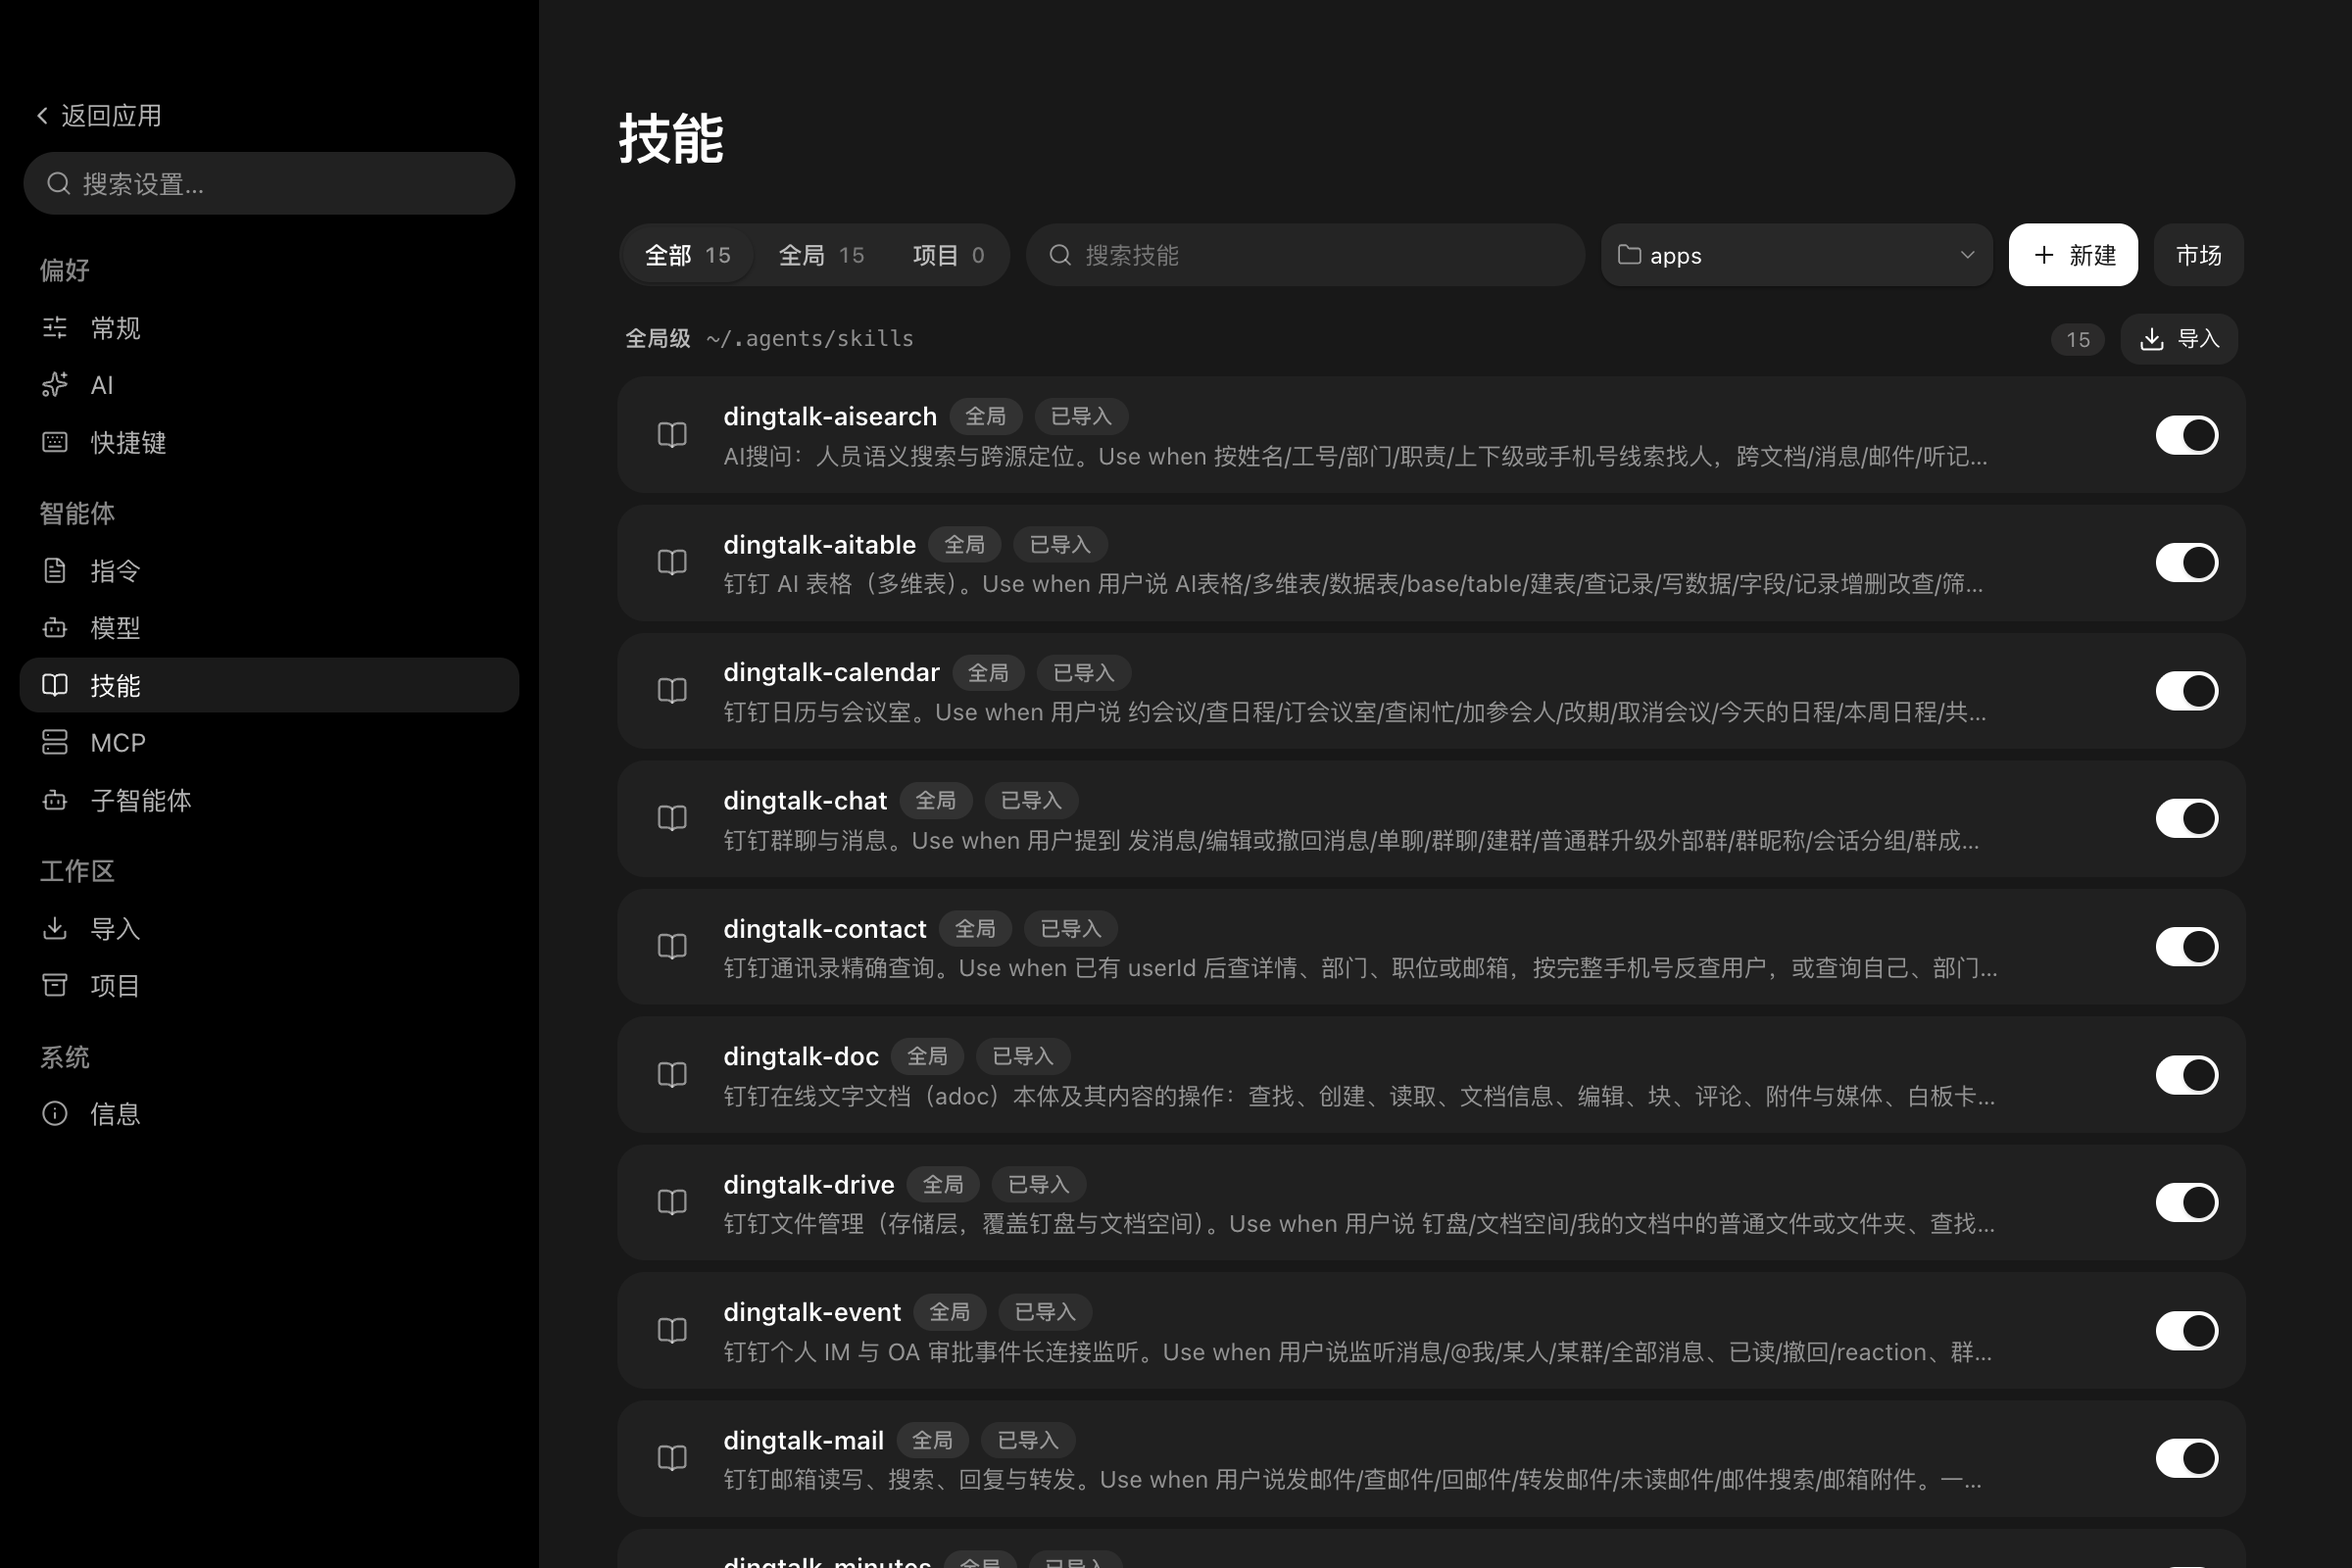
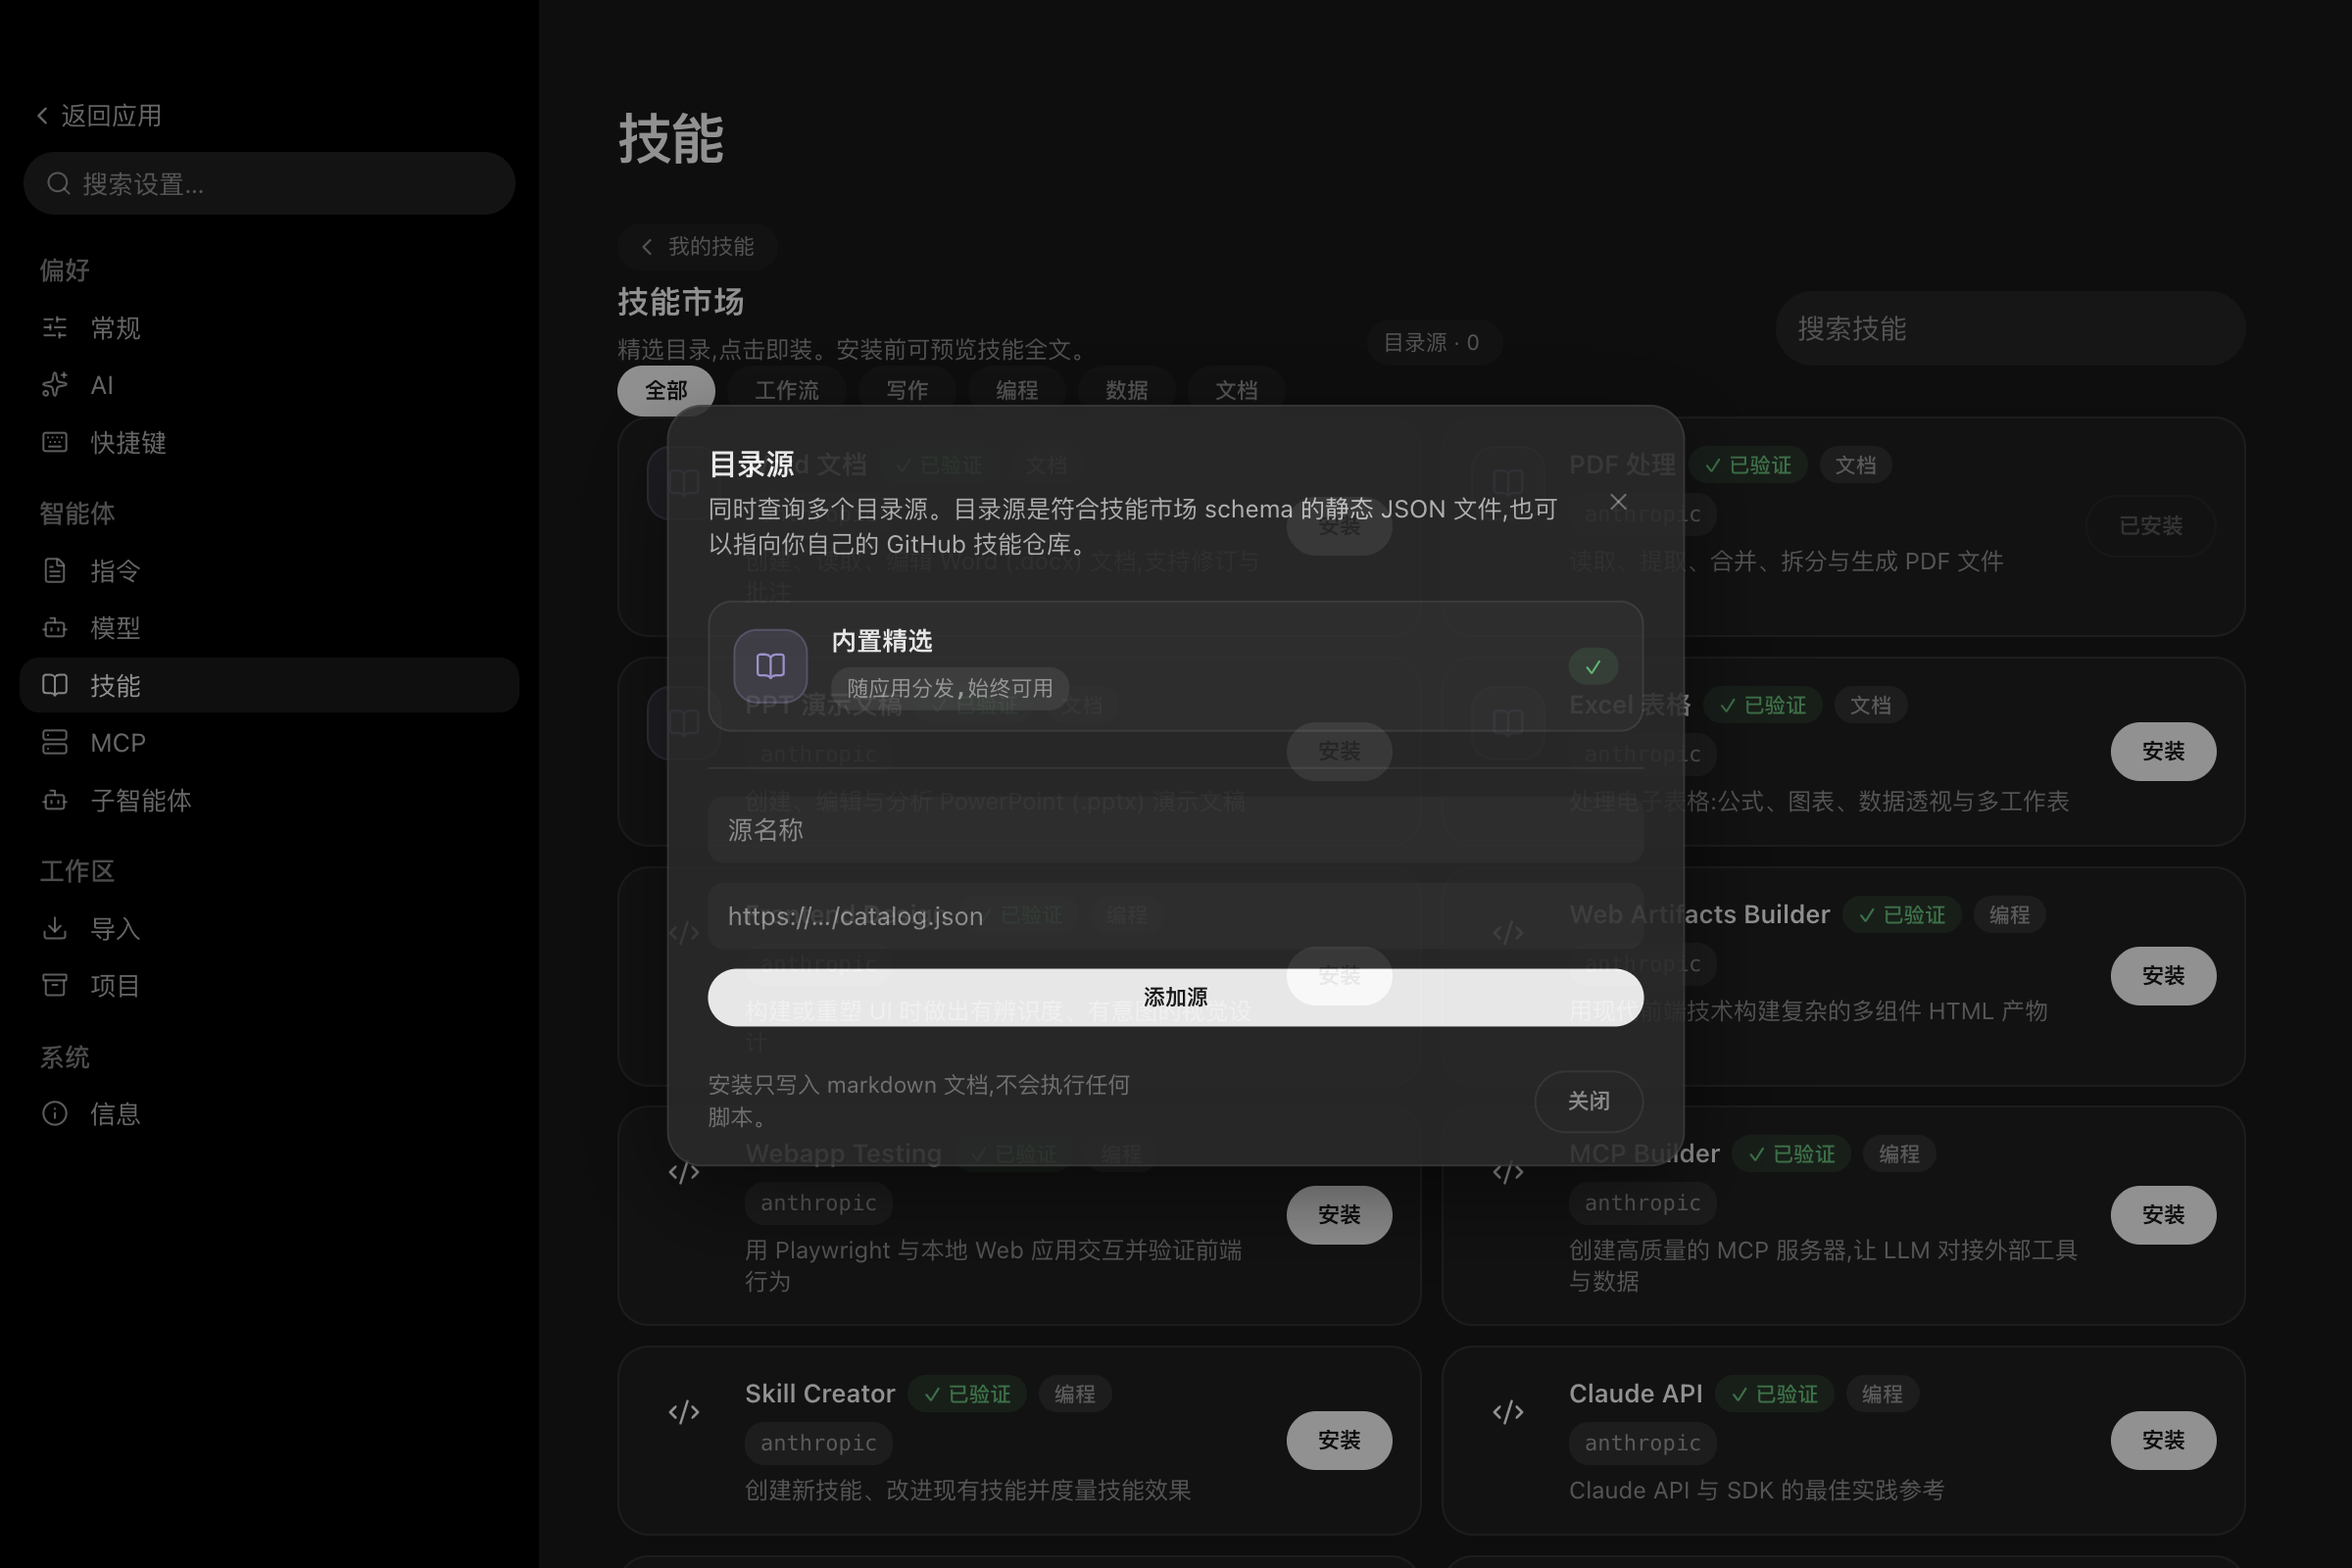
fix: 1:1 skill market styling with the mcp market
Restores the full style block that a truncated copy had cut short
(status lines, remote badge, pager, page buttons, jump box, sheet
animations), adds the missing sources entry chip to the market header,
ports the status/error lines, and marks the built-in catalog as an
always-on row in the sources sheet.

diff --git a/apps/desktop/src/components/settings/SkillMarketPanel.tsx b/apps/desktop/src/components/settings/SkillMarketPanel.tsx
@@ -267,6 +267,16 @@ export function SkillMarketPanel({
 
         <div className="ext-sheet-body">
           <ul className="sklm-source-list">
+            <li className="sklm-source">
+              <span className="sklm-glyph is-docs" aria-hidden>
+                <IconBookOpen size={16} />
+              </span>
+              <div className="sklm-source-body">
+                <span className="sklm-name">{t("settings.sklm.builtinSource")}</span>
+                <code className="sklm-cmd">{t("settings.sklm.builtinHint")}</code>
+              </div>
+              <span className="sklm-badge is-verified">✓</span>
+            </li>
             {sources.map((source) => (
               <li key={source.id} className="sklm-source">
                 <span className="sklm-glyph is-docs" aria-hidden>
@@ -414,6 +424,11 @@ export function SkillMarketPanel({
           <h3 className="sklm-title">{t("settings.sklm.title")}</h3>
           <p className="sklm-subtitle">{t("settings.sklm.subtitle")}</p>
         </div>
+        <div className="sklm-head-actions">
+          <button type="button" className="sklm-back" onClick={() => setSourcesOpen(true)}>
+            {t("settings.sklm.manageSources")} · {sources.length}
+          </button>
+        </div>
         <div className="sklm-search">
           <Input
             className="sklm-search-input"
@@ -427,6 +442,18 @@ export function SkillMarketPanel({
           />
         </div>
       </div>
+
+      {remote.status === "loading" ? (
+        <p className="sklm-status" role="status">
+          {t("settings.sklm.remoteLoading")}
+        </p>
+      ) : null}
+      {remote.status === "error" ? (
+        <p className="sklm-status is-error" role="status">
+          {t("settings.sklm.remoteError")}
+          {remote.failed.length ? ` (${remote.failed.join(", ")})` : ""}
+        </p>
+      ) : null}
 
       <div className="sklm-cats" role="tablist" aria-label={t("settings.sklm.title")}>
         {(["all", ...CATEGORIES] as const).map((id) => (

diff --git a/apps/desktop/src/styles/settings.css b/apps/desktop/src/styles/settings.css
@@ -2158,7 +2158,7 @@
   line-height: var(--leading-normal);
 }
 
-/* ── MCP market (mcpm) ───────────────────────────────────────────────────
+/* ── Skill market (sklm) ───────────────────────────────────────────────────
    Stays inside the neutral ds-token language; category identity comes from
    one tinted hue per category, everything else animates in greys. */
 

diff --git a/packages/i18n/src/locales/es/index.ts b/packages/i18n/src/locales/es/index.ts
@@ -593,6 +593,10 @@ sklm: {
       pagePrev: "Anterior",
       pageNext: "Siguiente",
       pageJump: "Ir",
+      builtinSource: "Selección integrada",
+      builtinHint: "Viene con la aplicación y siempre está disponible",
+      remoteLoading: "Cargando la fuente del catálogo…",
+      remoteError: "Fuente no disponible: se muestran las selecciones integradas",
     },    "title": "Configuración",
     "providers": "Proveedores de IA",
     "models": "Modelos",

diff --git a/packages/i18n/src/locales/fr/index.ts b/packages/i18n/src/locales/fr/index.ts
@@ -593,6 +593,10 @@ sklm: {
       pagePrev: "Précédente",
       pageNext: "Suivante",
       pageJump: "Aller",
+      builtinSource: "Sélection intégrée",
+      builtinHint: "Fournie avec l'application, toujours disponible",
+      remoteLoading: "Chargement de la source du catalogue…",
+      remoteError: "Source inaccessible – sélection intégrée affichée",
     },    "title": "Paramètres",
     "providers": "Fournisseurs d'IA",
     "models": "Modèles",

diff --git a/packages/i18n/src/locales/ko/index.ts b/packages/i18n/src/locales/ko/index.ts
@@ -602,6 +602,10 @@ sklm: {
       pagePrev: "이전 페이지",
       pageNext: "다음 페이지",
       pageJump: "이동",
+      builtinSource: "내장 목록",
+      builtinHint: "앱에 포함되어 항상 사용 가능",
+      remoteLoading: "카탈로그 소스를 불러오는 중…",
+      remoteError: "소스에 연결할 수 없어 내장 목록을 표시합니다",
     },    title: "설정",
     providers: "AI 프로바이더",
     models: "모델",

diff --git a/packages/i18n/src/locales/de/index.ts b/packages/i18n/src/locales/de/index.ts
@@ -593,6 +593,10 @@ sklm: {
       pagePrev: "Zurück",
       pageNext: "Weiter",
       pageJump: "Los",
+      builtinSource: "Integrierte Auswahl",
+      builtinHint: "Mit der App ausgeliefert, immer verfügbar",
+      remoteLoading: "Katalogquelle wird geladen…",
+      remoteError: "Katalogquelle nicht erreichbar – integrierte Auswahl wird angezeigt",
     },    "title": "Einstellungen",
     "providers": "KI-Anbieter",
     "models": "Modelle",

diff --git a/packages/i18n/src/locales/tr/index.ts b/packages/i18n/src/locales/tr/index.ts
@@ -602,6 +602,10 @@ sklm: {
       pagePrev: "Önceki sayfa",
       pageNext: "Sonraki sayfa",
       pageJump: "Git",
+      builtinSource: "Yerleşik seçkiler",
+      builtinHint: "Uygulamayla gelir, her zaman kullanılabilir",
+      remoteLoading: "Katalog kaynağı yükleniyor…",
+      remoteError: "Kaynak erişilemiyor – yerleşik seçkiler gösteriliyor",
     },    title: "Ayarlar",
     providers: "AI servisleri",
     models: "Modeller",

diff --git a/packages/i18n/src/locales/en/index.ts b/packages/i18n/src/locales/en/index.ts
@@ -600,6 +600,10 @@ sklm: {
       pagePrev: "Previous page",
       pageNext: "Next page",
       pageJump: "Go",
+      builtinSource: "Built-in picks",
+      builtinHint: "Ships with the app and is always available",
+      remoteLoading: "Loading the catalog source…",
+      remoteError: "Catalog source unreachable — showing built-in picks",
     },    title: "Settings",
     providers: "AI providers",
     models: "Models",

diff --git a/packages/i18n/src/locales/zh-TW/index.ts b/packages/i18n/src/locales/zh-TW/index.ts
@@ -596,6 +596,10 @@ sklm: {
       pagePrev: "上一頁",
       pageNext: "下一頁",
       pageJump: "跳轉",
+      builtinSource: "內建精選",
+      builtinHint: "隨應用程式發布,始終可用",
+      remoteLoading: "正在載入目錄源…",
+      remoteError: "目錄源暫不可達,已顯示內建精選",
     },    title: "設定",
     providers: "AI 服務",
     models: "模型",

diff --git a/packages/i18n/src/locales/zh-CN/index.ts b/packages/i18n/src/locales/zh-CN/index.ts
@@ -596,6 +596,10 @@ sklm: {
       pagePrev: "上一页",
       pageNext: "下一页",
       pageJump: "跳转",
+      builtinSource: "内置精选",
+      builtinHint: "随应用分发,始终可用",
+      remoteLoading: "正在加载目录源…",
+      remoteError: "目录源暂不可达,已显示内置精选",
     },    title: "设置",
     providers: "AI 服务",
     models: "模型",

diff --git a/apps/desktop/src/components/settings/AgentSkillsPage.tsx b/apps/desktop/src/components/settings/AgentSkillsPage.tsx
@@ -35,6 +35,7 @@ import {
 import {
   IconBookOpen,
   IconDownload,
+  IconFileText,
   IconFolderOpen,
   IconPencil,
   IconPlus,
@@ -393,6 +394,7 @@ export function AgentSkillsPage() {
       title={t("settings.sklm.subtitle")}
       onClick={() => setView("market")}
     >
+      <IconFileText size={14} />
       {t("settings.sklm.browse")}
     </CapabilityButton>
   );
